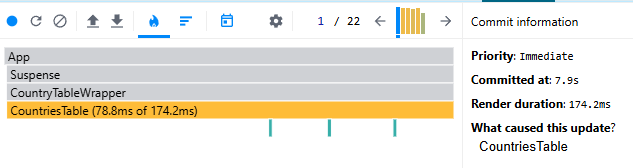
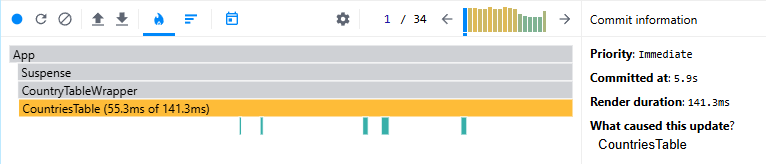
docs: add screenshot of profiler

diff --git a/src/components/CountryRow.tsx b/src/components/CountryRow.tsx
@@ -1,14 +1,7 @@
+import React from 'react';
 import type { CountryData, YearData } from '../types/country';
 
-export const CountryRow = ({
-  country,
-  info,
-  yearData,
-  highlighted,
-  visibleCols,
-  expanded,
-  toggleExpand,
-}: {
+type CountryRowProps = {
   country: string;
   info: CountryData;
   yearData: YearData | undefined;
@@ -16,6 +9,16 @@ export const CountryRow = ({
   visibleCols: string[];
   expanded: boolean;
   toggleExpand: (c: string) => void;
+};
+
+const CountryRowComponent: React.FC<CountryRowProps> = ({
+  country,
+  info,
+  yearData,
+  highlighted,
+  visibleCols,
+  expanded,
+  toggleExpand,
 }) => (
   <>
     <tr onClick={() => toggleExpand(country)} className="row-main">
@@ -68,3 +71,6 @@ export const CountryRow = ({
     )}
   </>
 );
+
+export const CountryRow = React.memo(CountryRowComponent);
+CountryRow.displayName = 'CountryRow';

diff --git a/README.md b/README.md
@@ -4,6 +4,6 @@
 - Render duration: CountriesTable до 78.8ms
 - Interactions: change sort, search, change year
 - Flame Graph:
-  ![Flame Graph before](<img src="https://github.com/barmenski/REACT/raw/performance/assets/flame-before.png" alt="measure" height="480">)
+  ![Flame Graph before](assets/flame-before.png")
 - Ranked Chart:
-  ![Ranked before](<img src="https://github.com/barmenski/REACT/raw/performance/assets/ranked-before.png" alt="measure" height="480">)
+  ![Ranked before](assets/ranked-before.png")
